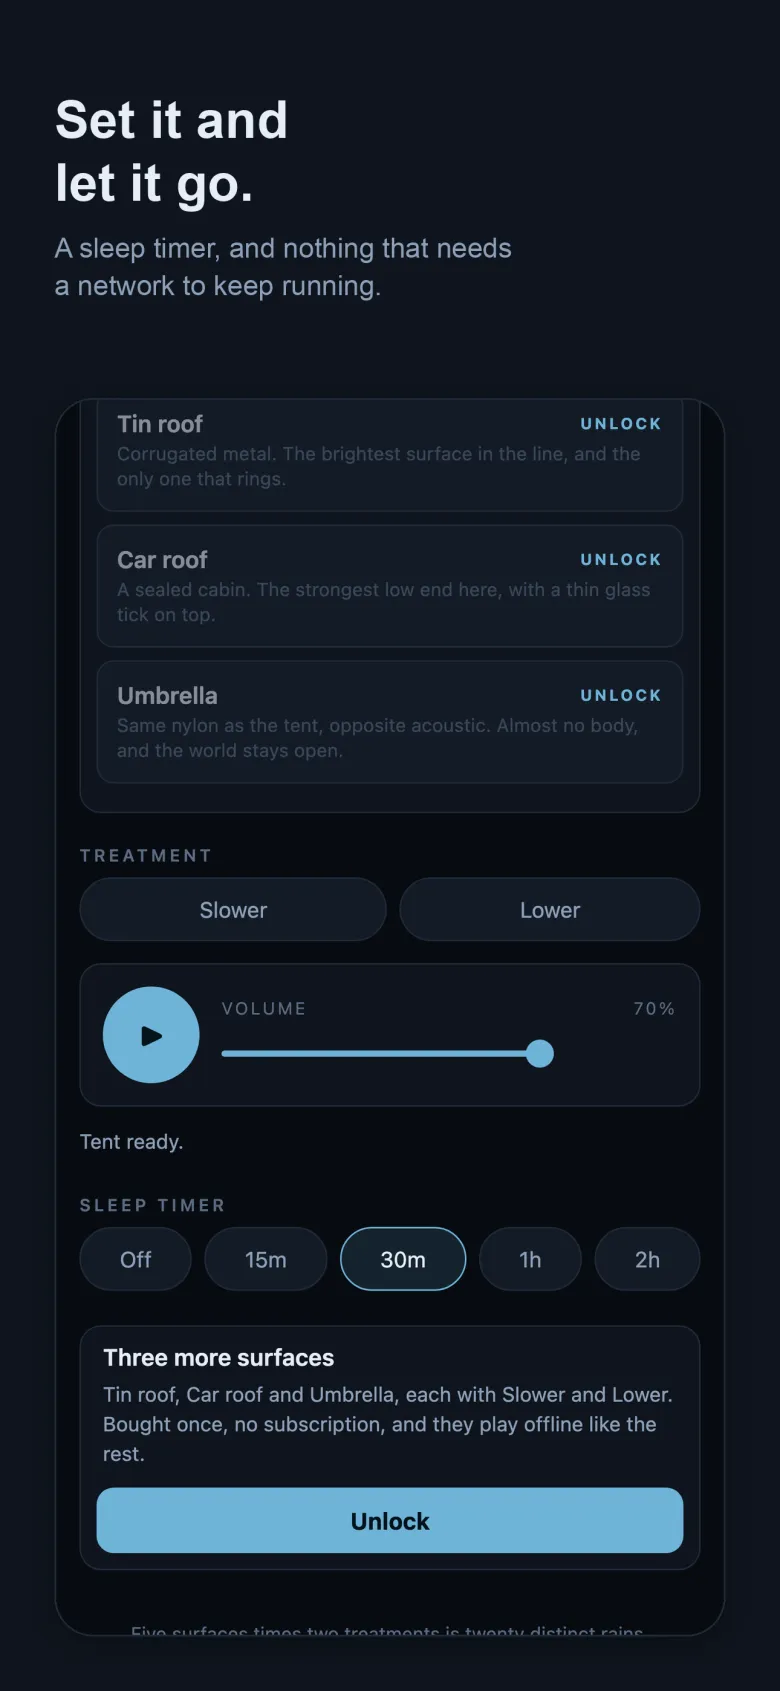
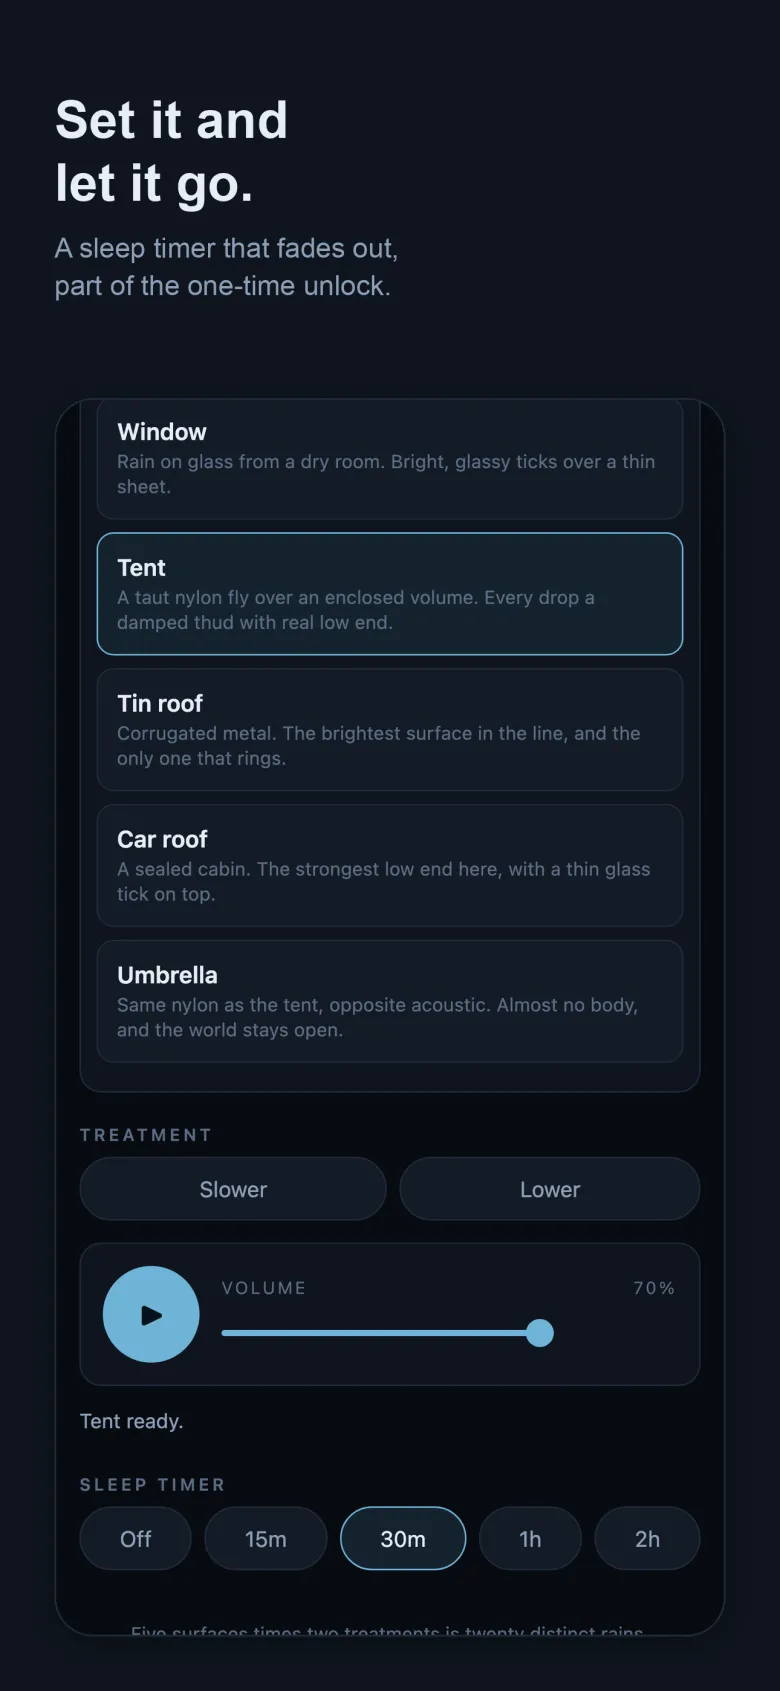
Apps page: Quiet and Downpour are trials of paid apps, not free tiers
His rule, 2026-09-25: apps are not free unless the in-app purchase earns.

Quiet: the card said "Write freely for thirty days" (the app never had a time
trial) and "no migrations because it has no database" (it is SQLite). Now:
your first 10 entries (the app's new FREE_ENTRY_LIMIT, down from 50), search,
export and delete never held back, the purchase removes the limit. It has an
App Store record, so it moves to "waiting on a store".

Downpour: the card promised Tent and Window free forever. Now: a ten-minute
listen of the Tent, and the purchase opens everything.

Both carry free_label "Try it" instead of "Free tier". Screenshots refreshed.

Claude-Session: 73dbb312-b0c3-42c3-8584-d9981138a9ce

diff --git a/apps/index.html b/apps/index.html
@@ -212,7 +212,7 @@
 <div class="ap-links"><a class="go" href="https://carrster43.github.io/planfinder-web/sample">Open the sample comparison &rarr;</a><a href="/planfinder/">Support</a><a href="/planfinder/privacy/">Privacy</a></div>
 </article>
 </div>
-<div class="ap-group"><span class="count">8 tools</span><h2>Coming soon: waiting on a store</h2><p>Finished software, held up by a submission rather than by a feature. Each of these is close, and what it is waiting on is named on its own page.</p></div>
+<div class="ap-group"><span class="count">9 tools</span><h2>Coming soon: waiting on a store</h2><p>Finished software, held up by a submission rather than by a feature. Each of these is close, and what it is waiting on is named on its own page.</p></div>
 <div class="ap-grid">
 <article class="ap-card">
 <div class="ap-top">
@@ -271,8 +271,8 @@
 <div class="ap-shots"><a href="/apps/shots/downpour/1-surfaces.webp"><img src="/apps/shots/downpour/1-surfaces-sm.webp" alt="Downpour, screenshot 1 of 3" width="104" height="225" loading="lazy" decoding="async"></a><a href="/apps/shots/downpour/2-playing.webp"><img src="/apps/shots/downpour/2-playing-sm.webp" alt="Downpour, screenshot 2 of 3" width="104" height="225" loading="lazy" decoding="async"></a><a href="/apps/shots/downpour/3-timer.webp"><img src="/apps/shots/downpour/3-timer-sm.webp" alt="Downpour, screenshot 3 of 3" width="104" height="225" loading="lazy" decoding="async"></a></div>
 <p class="ap-blurb">Rain for sleep, built live on your phone drop by drop instead of played from a recording, so there is no loop to notice at 3am. Five surfaces, a sleep timer that fades out, no signal needed.</p>
 <div class="ap-price">Not priced yet<span class="tag">The price is set when it reaches the App Store. One payment, never a subscription.</span></div>
-<p class="ap-free"><b>Free tier</b>Tent and Window are free, now and always, with both treatments, the volume and every sleep timer.</p>
-<p class="ap-note">The purchase adds Tin roof, Car roof and Umbrella. It is one payment, not a subscription, and nothing about you leaves the phone.</p>
+<p class="ap-free"><b>Try it</b>Listen to the Tent for ten minutes at a time, as often as you like, and hear for yourself that it never loops.</p>
+<p class="ap-note">The purchase opens everything: all five surfaces, Slower and Lower, the sleep timer, and rain that plays until you stop it. One payment, not a subscription, and nothing about you leaves the phone.</p>
 
 <div class="ap-links"><a href="mailto:support@carrierpress.com?subject=Downpour">Tell me when Downpour is out</a><a href="/downpour/">Support</a><a href="/downpour/privacy/">Privacy</a></div>
 </article>
@@ -326,6 +326,22 @@
 </article>
 <article class="ap-card">
 <div class="ap-top">
+<span class="ap-num">30</span>
+<h3>Quiet</h3>
+<span class="ap-badge"><span class="dot dot-soon"></span>Coming soon</span>
+</div>
+<div class="ap-shots"><a href="/apps/shots/quiet/1-keep.webp"><img src="/apps/shots/quiet/1-keep-sm.webp" alt="Quiet, screenshot 1 of 3" width="104" height="225" loading="lazy" decoding="async"></a><a href="/apps/shots/quiet/2-lookback.webp"><img src="/apps/shots/quiet/2-lookback-sm.webp" alt="Quiet, screenshot 2 of 3" width="104" height="225" loading="lazy" decoding="async"></a><a href="/apps/shots/quiet/3-settings.webp"><img src="/apps/shots/quiet/3-settings-sm.webp" alt="Quiet, screenshot 3 of 3" width="104" height="225" loading="lazy" decoding="async"></a></div>
+<p class="ap-blurb">The personal record that never leaves the device. No account, no sync, and no network permission in the default build.</p>
+<div class="ap-price">$78.99 once
+<span class="tag">One payment. Never a subscription.</span>
+</div>
+<p class="ap-free"><b>Try it</b>Your first 10 entries. Search, export and delete keep working after that, so nothing you wrote is ever held back.</p>
+<p class="ap-note">The purchase removes the limit for good. There is no server to pay for, so there is nothing to bill you monthly for: your journal lives in a database on your phone and nowhere else.</p>
+
+<div class="ap-links"><a href="mailto:support@carrierpress.com?subject=Quiet">Tell me when Quiet is out</a><a href="/quiet/">Support</a><a href="/quiet/privacy/">Privacy</a></div>
+</article>
+<article class="ap-card">
+<div class="ap-top">
 <span class="ap-num">37</span>
 <h3>Cast</h3>
 <span class="ap-badge"><span class="dot dot-soon"></span>Coming soon</span>
@@ -341,7 +357,7 @@
 <div class="ap-links"><a class="go" href="/audio/">See the catalogue and what it costs &rarr;</a><a href="mailto:support@carrierpress.com?subject=Cast">Tell me when Cast is out</a><a href="/cast/">Support</a><a href="/cast/privacy/">Privacy</a></div>
 </article>
 </div>
-<div class="ap-group"><span class="count">31 tools</span><h2>Coming soon: waiting on one piece</h2><p>Built and running, with one named thing still missing. In most cases that missing thing is the part somebody would actually be relying on, which is why it is not for sale yet.</p></div>
+<div class="ap-group"><span class="count">30 tools</span><h2>Coming soon: waiting on one piece</h2><p>Built and running, with one named thing still missing. In most cases that missing thing is the part somebody would actually be relying on, which is why it is not for sale yet.</p></div>
 <div class="ap-grid">
 <article class="ap-card">
 <div class="ap-top">
@@ -581,22 +597,6 @@
 <p class="ap-note">It stops at the confirm button. Every time, on purpose.</p>
 
 <div class="ap-links"><a href="mailto:support@carrierpress.com?subject=Errand">Tell me when Errand is out</a><a href="/errand/">Support</a><a href="/errand/privacy/">Privacy</a></div>
-</article>
-<article class="ap-card">
-<div class="ap-top">
-<span class="ap-num">30</span>
-<h3>Quiet</h3>
-<span class="ap-badge"><span class="dot dot-soon"></span>Coming soon</span>
-</div>
-<div class="ap-shots"><a href="/apps/shots/quiet/1-keep.webp"><img src="/apps/shots/quiet/1-keep-sm.webp" alt="Quiet, screenshot 1 of 3" width="104" height="225" loading="lazy" decoding="async"></a><a href="/apps/shots/quiet/2-lookback.webp"><img src="/apps/shots/quiet/2-lookback-sm.webp" alt="Quiet, screenshot 2 of 3" width="104" height="225" loading="lazy" decoding="async"></a><a href="/apps/shots/quiet/3-settings.webp"><img src="/apps/shots/quiet/3-settings-sm.webp" alt="Quiet, screenshot 3 of 3" width="104" height="225" loading="lazy" decoding="async"></a></div>
-<p class="ap-blurb">The personal record that never leaves the device. No account, no sync, and no network permission in the default build.</p>
-<div class="ap-price">$78.99 once
-<span class="tag">One payment. Never a subscription.</span>
-</div>
-<p class="ap-free"><b>Free tier</b>Write freely for thirty days before deciding.</p>
-<p class="ap-note">There is no server to pay for, so there is nothing to bill you monthly for. It has no migrations because it has no database. That is the product, not a gap.</p>
-
-<div class="ap-links"><a href="mailto:support@carrierpress.com?subject=Quiet">Tell me when Quiet is out</a><a href="/quiet/">Support</a><a href="/quiet/privacy/">Privacy</a></div>
 </article>
 <article class="ap-card">
 <div class="ap-top">

diff --git a/apps_data.py b/apps_data.py
@@ -67,12 +67,12 @@ APPS = [
          note="The purchase keeps people by name, with their date and weeks, so a family is one tap each. The list never leaves the phone. One payment, not a subscription."),
 
     # Downpour, added 2026-09-25. Price deliberately empty: his call when the
-    # in-app purchase is created. Free/paid split from Downpour mobile/lib/access.ts.
+    # in-app purchase is created. Trial/unlock split from Downpour mobile/lib/access.ts (09-25).
     dict(n=36, slug="downpour", name="Downpour",
          blurb="Rain for sleep, built live on your phone drop by drop instead of played from a recording, so there is no loop to notice at 3am. Five surfaces, a sleep timer that fades out, no signal needed.",
-         status="soon", shape="once", price="",
-         free="Tent and Window are free, now and always, with both treatments, the volume and every sleep timer.",
-         note="The purchase adds Tin roof, Car roof and Umbrella. It is one payment, not a subscription, and nothing about you leaves the phone."),
+         status="soon", shape="once", price="", free_label="Try it",
+         free="Listen to the Tent for ten minutes at a time, as often as you like, and hear for yourself that it never loops.",
+         note="The purchase opens everything: all five surfaces, Slower and Lower, the sleep timer, and rain that plays until you stop it. One payment, not a subscription, and nothing about you leaves the phone."),
 
     # ---- Runs in a browser today ----
     dict(n=31, slug="planfinder", name="Plan Finder",
@@ -188,9 +188,9 @@ APPS = [
 
     dict(n=30, slug="quiet", name="Quiet",
          blurb="The personal record that never leaves the device. No account, no sync, and no network permission in the default build.",
-         status="build", shape="once", price="$78.99 once",
-         free="Write freely for thirty days before deciding.",
-         note="There is no server to pay for, so there is nothing to bill you monthly for. It has no migrations because it has no database. That is the product, not a gap."),
+         status="soon", shape="once", price="$78.99 once", free_label="Try it",
+         free="Your first 10 entries. Search, export and delete keep working after that, so nothing you wrote is ever held back.",
+         note="The purchase removes the limit for good. There is no server to pay for, so there is nothing to bill you monthly for: your journal lives in a database on your phone and nowhere else."),
 
     dict(n=26, slug="houseledger", name="House Ledger",
          blurb="The home's service record: systems, ages, warranties, contractors. Built so it hands over cleanly at sale.",

diff --git a/make_apps.py b/make_apps.py
@@ -321,7 +321,11 @@ def card(app):
                    % tag)
 
     if free:
-        out.append('<p class="ap-free"><b>Free tier</b>%s</p>' % e(free))
+        # `free_label` (2026-09-25): a TRIAL is not a free tier, and his rule is
+        # that apps are not free unless the purchase earns. Rows whose free part
+        # is only a taste say "Try it"; the rest keep "Free tier".
+        out.append('<p class="ap-free"><b>%s</b>%s</p>'
+                   % (e(app.get("free_label", "Free tier")), e(free)))
     if app.get("note"):
         out.append('<p class="ap-note">%s</p>' % e(app["note"]))
 
